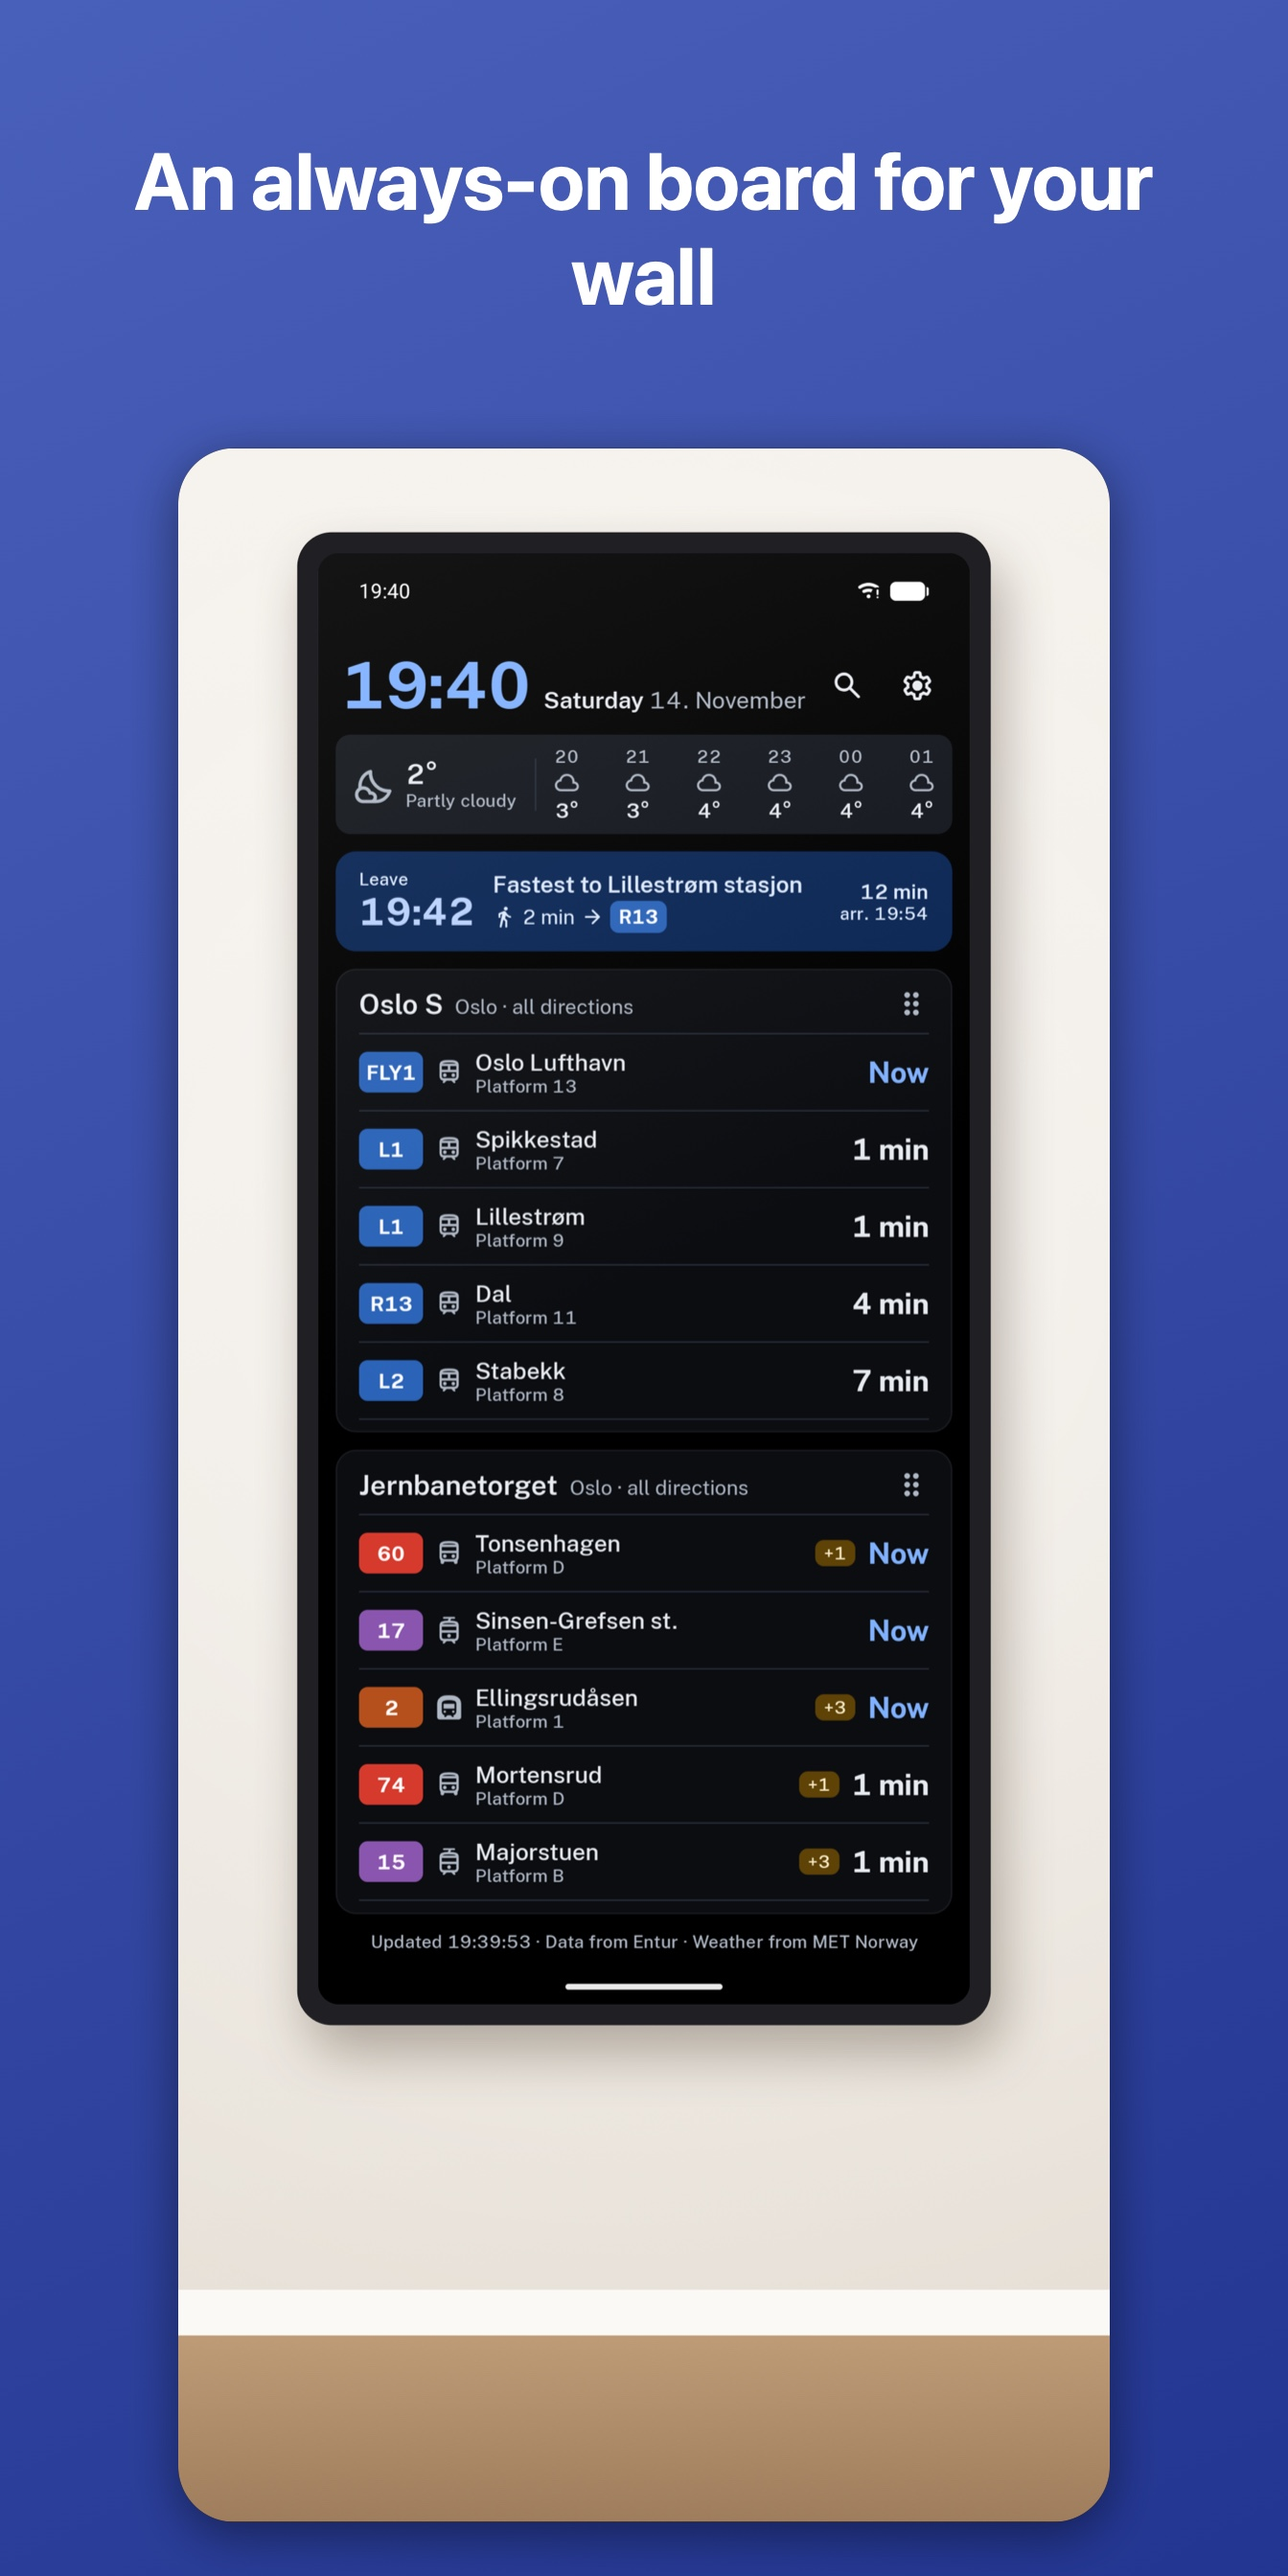
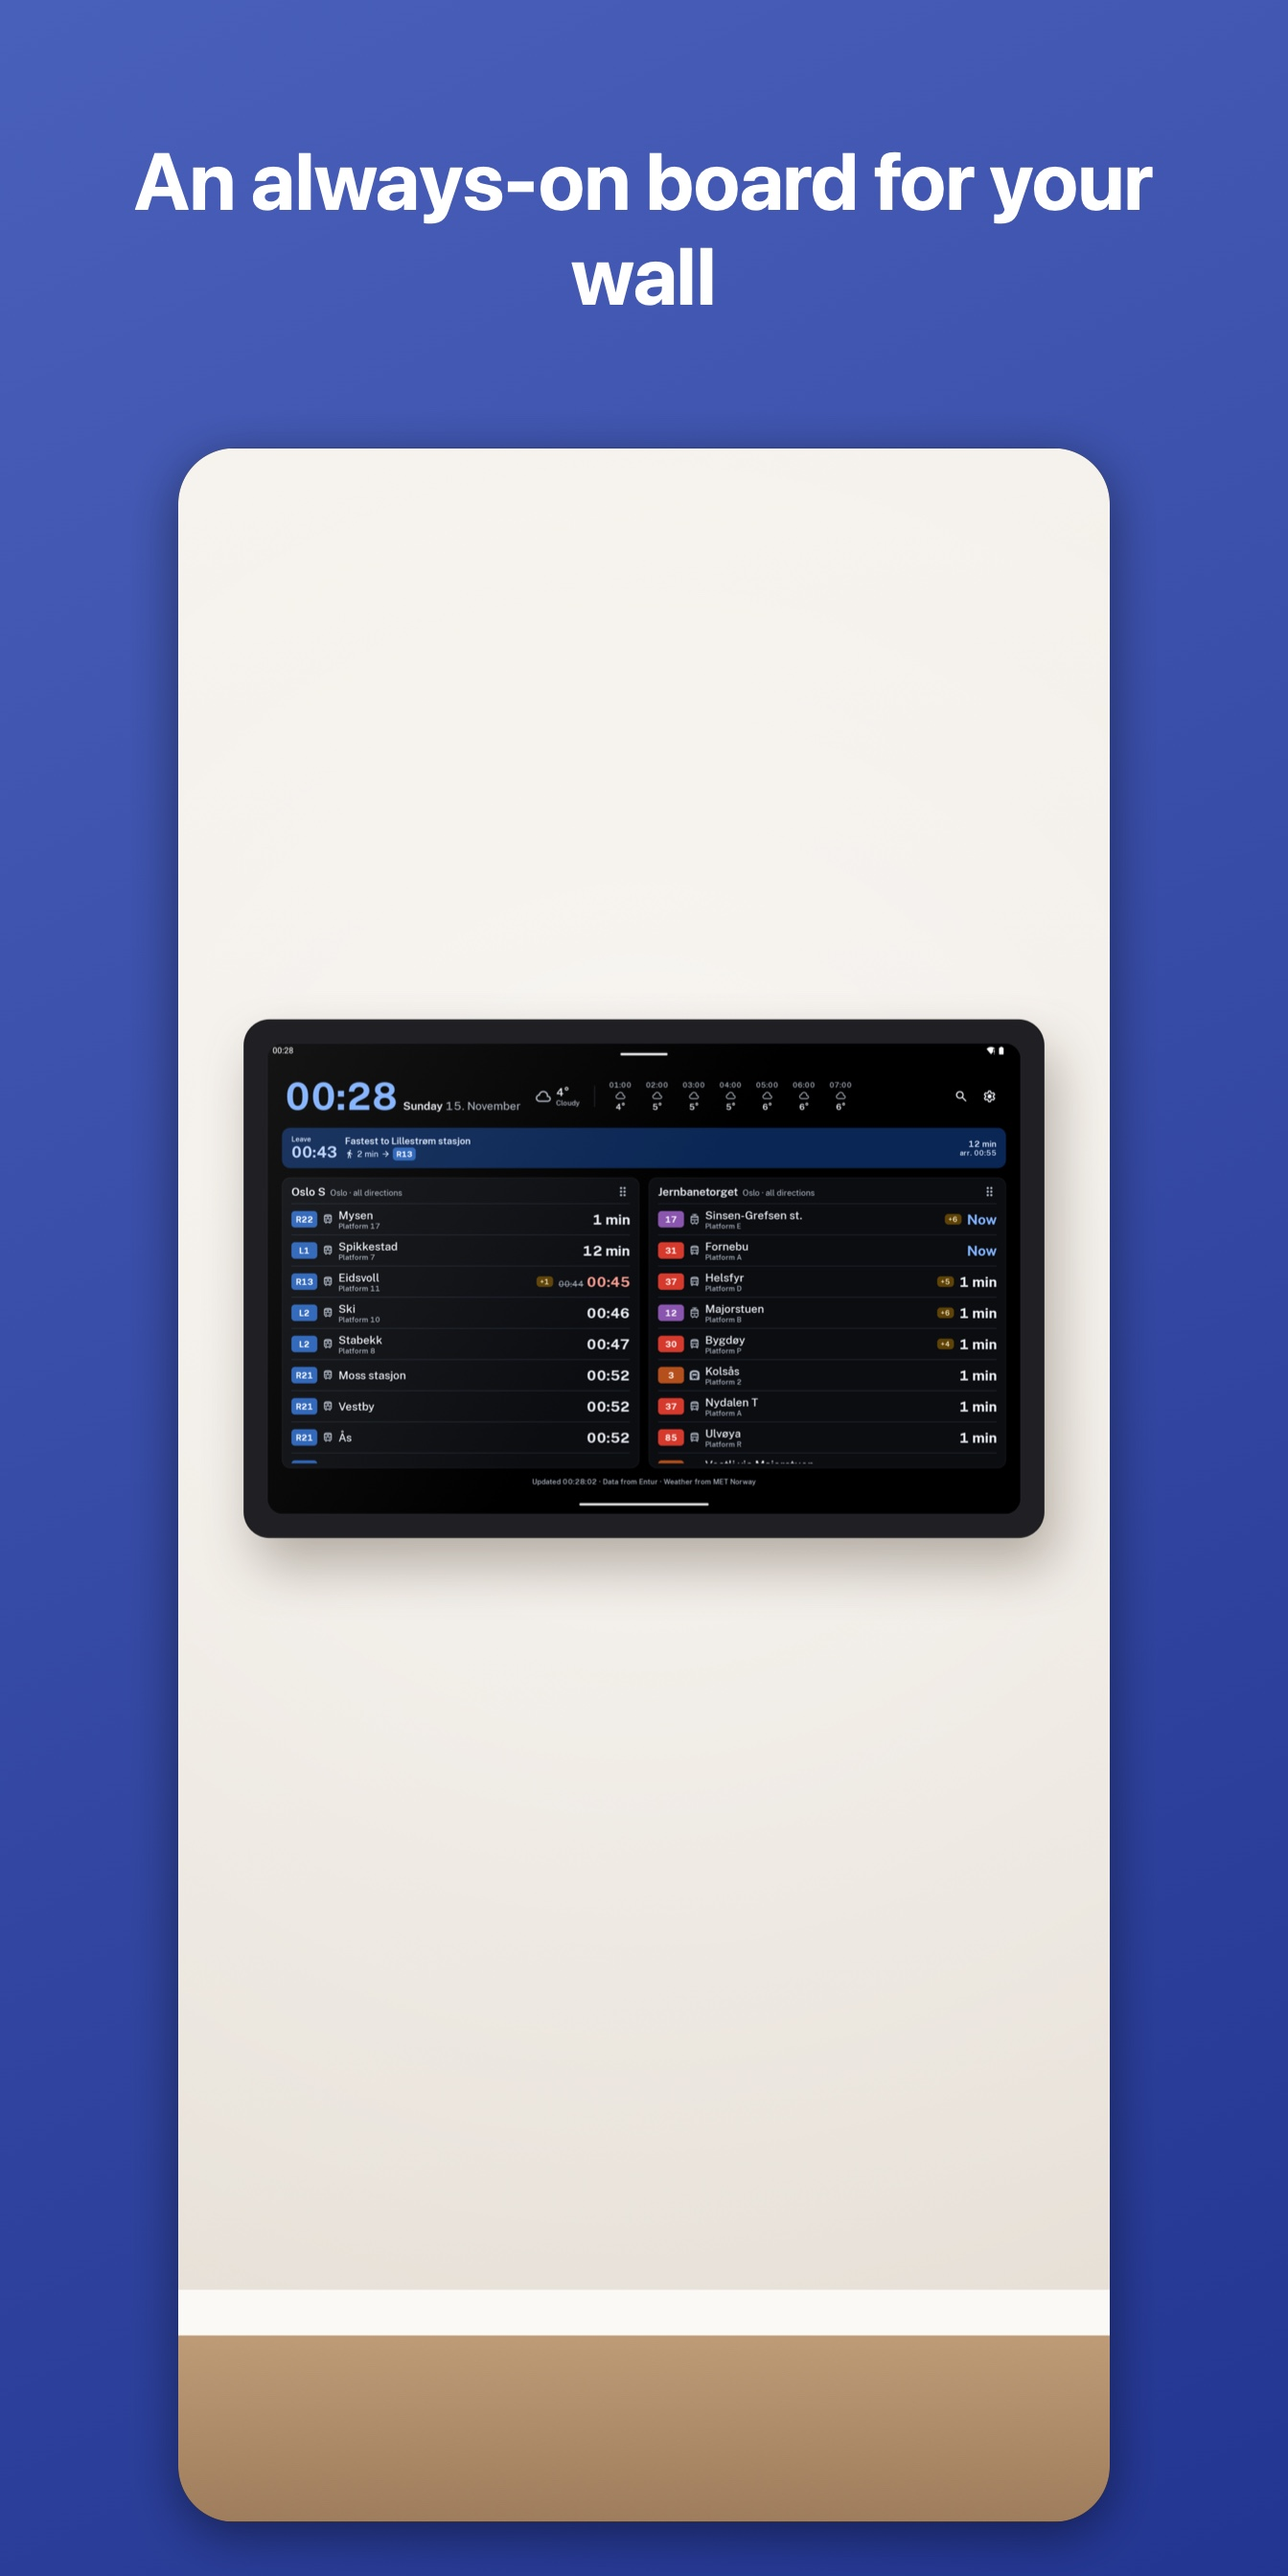
Complete the Play screenshots: Norwegian phone set and tablets (#111)
- The Norwegian phone set gets route search, the dark board, a
  departure's details and the wall, so it has all eight, as English.
- Tablet screenshots for both locales (the board, the wall, the dark
  board and a departure's details), framed into both of Play's tablet
  slots: GPP's tablet (7-inch) and large-tablet (10-inch) folders. On
  the Pixel Tablet emulator the location fix never arrived, so On the
  spot and route search are left out.
- With a tablet board captured, the phones' wall shot shows a tablet on
  the wall, as on the App Store.

Already uploaded to Play with publishReleaseListing.

Claude-Session: https://claude.ai/code/session_01RnV2HBdwmZs5ZTdUAfwpu7

Changed region(s): [[0.1875, 0.1875, 0.8438, 0.8125]]

diff --git a/scripts/frame-ios-screenshots.swift b/scripts/frame-ios-screenshots.swift
@@ -217,18 +217,22 @@ for locale in ["en-GB", "no"] {
         guard let caption = (play ? playCaptions[scene]?[locale] : nil) ?? captions[scene]?[locale] else { continue }
         let shot = image()
         var canvas = CGSize(width: shot.width, height: shot.height)
-        let out: URL
+        var outs: [URL] = []
         if play {
             // Play: neither side more than twice the other.
             canvas.height = min(canvas.height, canvas.width * 2)
             canvas.width = min(canvas.width, canvas.height * 2)
             let listing = locale == "no" ? "no-NO" : "en-US"
-            let folder = device == "tablet" ? "tablet-screenshots" : "phone-screenshots"
-            out = outDir.appendingPathComponent("\(listing)/graphics/\(folder)/\(scene).jpg")
+            // A tablet's shots go to Play's 7- and 10-inch slots alike (GPP's tablet and large-tablet).
+            let folders = device == "tablet" ? ["tablet-screenshots", "large-tablet-screenshots"] : ["phone-screenshots"]
+            outs = folders.map { outDir.appendingPathComponent("\(listing)/graphics/\($0)/\(scene).jpg") }
         } else {
-            out = outDir.appendingPathComponent(locale).appendingPathComponent(name + ".jpg")
+            outs = [outDir.appendingPathComponent(locale).appendingPathComponent(name + ".jpg")]
         }
-        save(framed(shot, caption: caption, canvas: canvas), to: out)
-        print("Wrote \(out.path)")
+        let image = framed(shot, caption: caption, canvas: canvas)
+        for out in outs {
+            save(image, to: out)
+            print("Wrote \(out.path)")
+        }
     }
 }

diff --git a/README.MD b/README.MD
@@ -166,7 +166,7 @@ Crash reports use `iosApp/iosApp/GoogleService-Info.plist` (the Firebase project
 `iosApp/fastlane/screenshots` and `iosApp/fastlane/app_previews` hold the App Store media for the
 6.9" iPhone and 13" iPad, in English (UK) and Norwegian, plus iPhone Duo screenshots (`duo_*`, the
 inner display in portrait, 2007×2853). The Play screenshots are in
-`app/src/main/play/listings/<locale>/graphics/{phone,tablet}-screenshots`. Both stores show the
+`app/src/main/play/listings/<locale>/graphics/{phone,tablet,large-tablet}-screenshots` (the tablet shots go to both of Play's tablet sizes). Both stores show the
 same scenes, in this order: the board, the home-screen widgets, the board on a wall (a mock-up),
 On the spot, a route's details with journey alerts, route search, the dark board with the weather,
 and a departure's details with "Filter out line". They are made from the running apps with live
